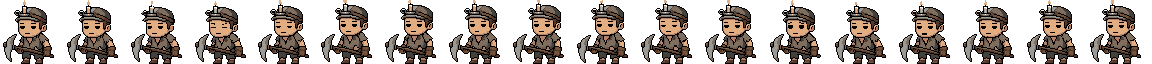
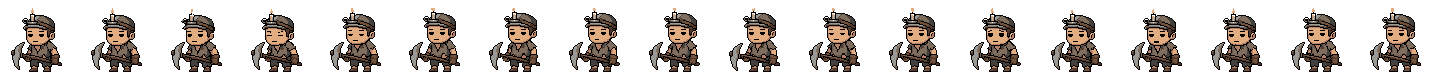
Working on Miner animations

diff --git a/Assets/_Game/Scripts/Combat/Enemies/Data/EnemyDefinition.cs b/Assets/_Game/Scripts/Combat/Enemies/Data/EnemyDefinition.cs
@@ -55,6 +55,14 @@ public sealed class EnemyDefinition : ScriptableObject
     )]
     private RuntimeAnimatorController animationControllerOverride;
 
+    [SerializeField]
+    [Tooltip(
+    "Display size of this enemy's VisualRoot. " +
+    "Use a larger size for animation canvases that need extra room."
+)]
+    private Vector2 visualSize =
+    new Vector2(112f, 112f);
+
     [Header("Base Combat Stats")]
 
     [SerializeField, Min(1)]
@@ -160,6 +168,12 @@ public sealed class EnemyDefinition : ScriptableObject
     public RuntimeAnimatorController
         AnimationControllerOverride =>
             animationControllerOverride;
+
+    public Vector2 VisualSize =>
+    visualSize.x > 0f &&
+    visualSize.y > 0f
+        ? visualSize
+        : new Vector2(112f, 112f);
 
     /*
      * Compatibility property for the current WaveController spawn path.

diff --git a/Assets/_Game/Scripts/Combat/Enemies/Presentation/EnemyVisualPresenter.cs b/Assets/_Game/Scripts/Combat/Enemies/Presentation/EnemyVisualPresenter.cs
@@ -25,6 +25,9 @@ public static class EnemyVisualPresenter
             return false;
         }
 
+        enemyImage.rectTransform.sizeDelta =
+            definition.VisualSize;
+
         Sprite fallbackSprite =
             definition.FallbackVisualSprite;
 
